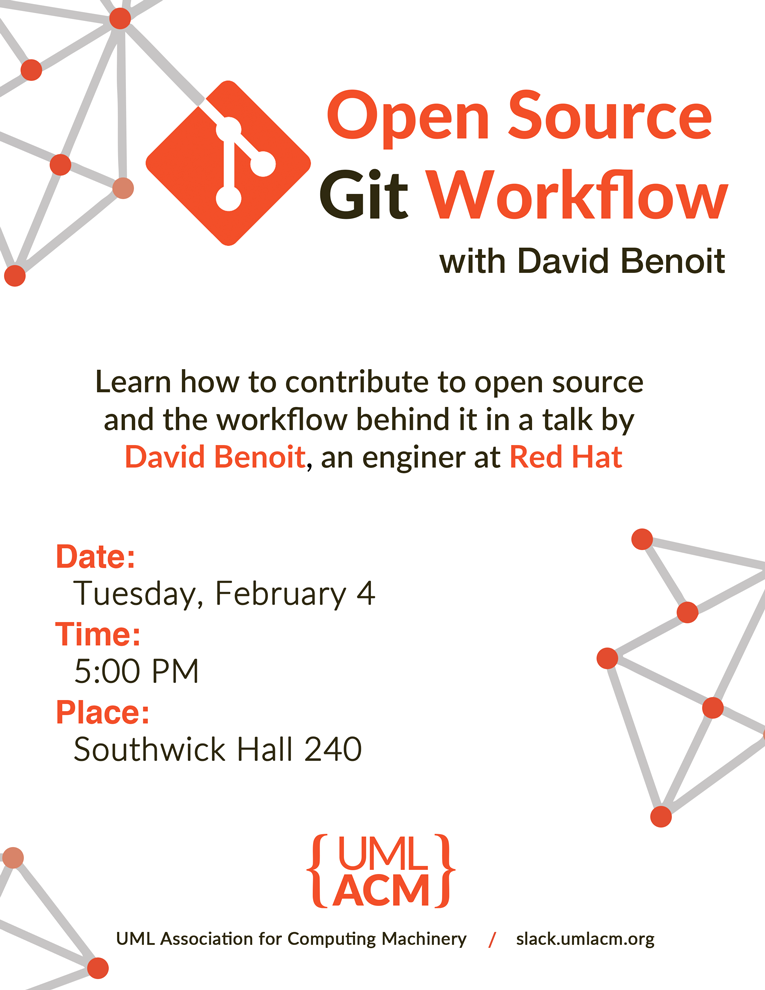
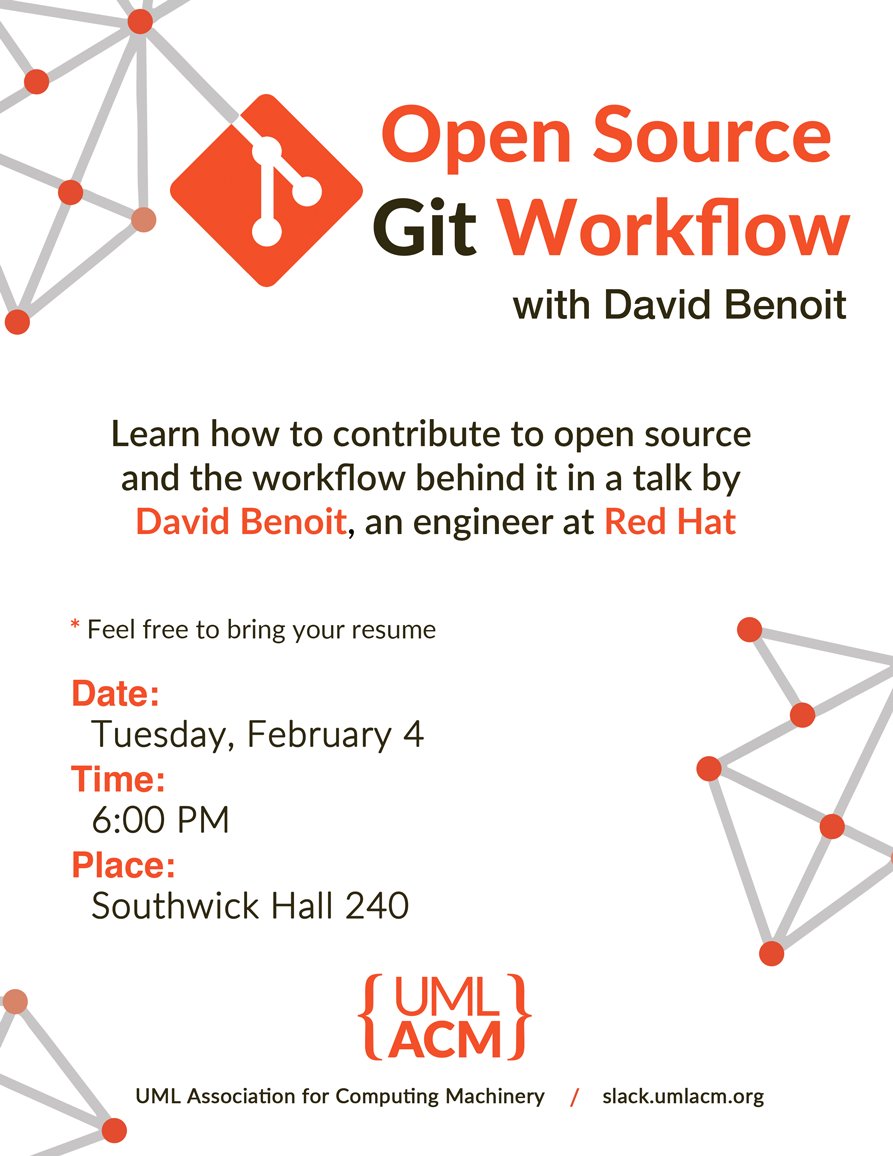
Updated wrong data on poster

diff --git a/index.html b/index.html
@@ -571,7 +571,7 @@
             <!-- container -->
         </footer>
 
-        <a href="#" class="back-to-top"><i class="lni-chevron-up"></i></a>
+        <a href="#" class="back-to-top d-none"><i class="lni-chevron-up"></i></a>
         
         <!--====== Jquery js ======-->
         <script src="https://code.jquery.com/jquery-3.4.1.js"
